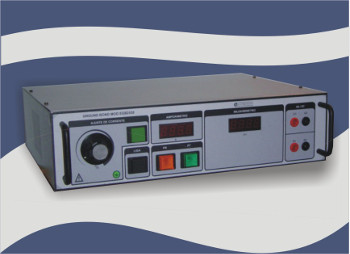
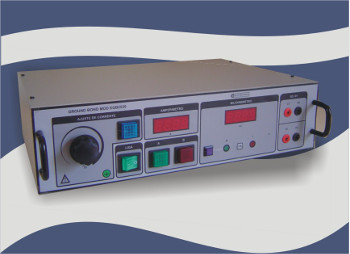
About Page and New Products added

Changed region(s): [[0.0286, 0.2205, 0.9714, 0.7992], [0.6857, 0.5512, 0.7429, 0.5787]]

diff --git a/produtos.html b/produtos.html
@@ -378,6 +378,20 @@
        </div>
       </div>
     </div>
+
+    <div class="row">
+      <div class="col-sm-4 col-md-4">
+       <div class="thumbnail">
+         <img src="images/fet.jpg" alt="fet_picture">
+          <div class="caption">
+            <h3>Lorem Ipsum</h3>
+            <h4>(Mod.: FET)</h4>
+              <p>Lorem ipsum dolor sit amet, venenatis quis torquent auctor interdum iaculis et, velit impedit gravida et, nisl elit, pede sed cupidatat auctor nulla. Tristique libero venenatis vitae ante enim eaque.</p>
+              <p><a href="#" class="btn btn-primary" role="button">Ver Detalhes</a></p>
+          </div>
+       </div>
+      </div>
+    </div>
   </div><!-- End of #main-content -->
 
   <footer class="panel-footer">

diff --git a/sobre.html b/sobre.html
@@ -77,7 +77,6 @@
         </div>
     </div>
 
-
   <div class="panel panel-default">
     <div class="panel-heading">
       <h3 class="panel-title">Missão</h3>
@@ -119,7 +118,7 @@
       <h3 class="panel-title">Desenvolvimento</h3>
     </div>
     <div class="panel-body" >
-      <p class="navbar-text">“Todos os produtos de nossa fabricação tem desenvolvimento 100% nacional.”</p>
+      <p class="navbar-text">Todos os produtos de nossa fabricação tem desenvolvimento 100% nacional.</p>
     </div>
   </div> 
 
